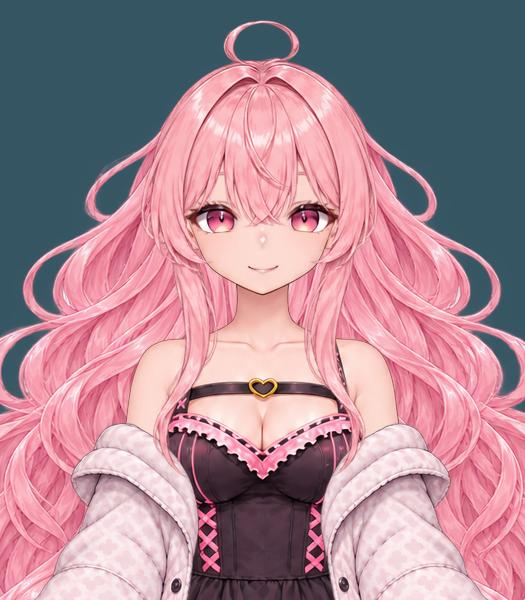
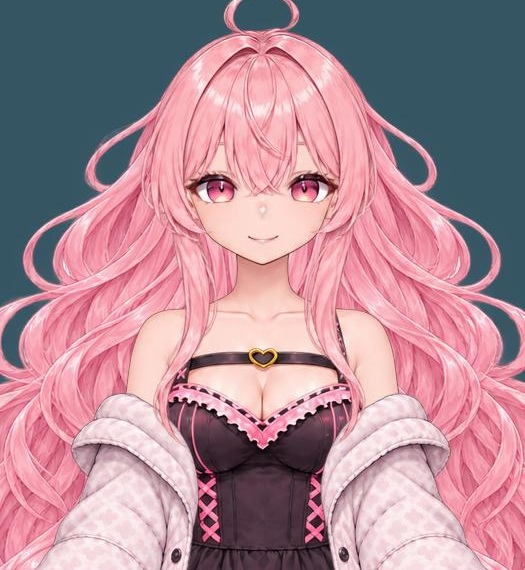
Replace AI or Not question 45 artwork

diff --git a/games/ai-or-not/game.js b/games/ai-or-not/game.js
@@ -43,7 +43,7 @@ const questions = [
   {src:'images/q42.png',ai:true,copy:'AI画像です。生成AIによって制作された画像です。'},
   {src:'images/q43.png',ai:true,copy:'AI画像です。生成AIによって制作された画像です。'},
   {src:'images/q44.png',ai:true,copy:'AI画像です。生成AIによって制作された画像です。'},
-  {src:'images/q45.jpg',ai:true,copy:'AI画像です。生成AIによって制作された画像です。'},
+  {src:'images/q45.jpg?v=2',ai:true,copy:'AI画像です。生成AIによって制作された画像です。'},
 ];
 
 const startScreen=document.querySelector('#start-screen');

diff --git a/games/ai-or-not/index.html b/games/ai-or-not/index.html
@@ -102,7 +102,7 @@
 </details>
 <!-- game-info:end -->
 <footer>© 2026 にくねこスタジオ · <a href="../../terms/">利用規約</a> · <a href="../../privacy/">プライバシーポリシー</a><br><small>使用画像の権利は各権利者に帰属します。</small></footer>
-  <script src="game.js?v=20261116-1" defer></script>
+  <script src="game.js?v=20261116-2" defer></script>
   <script src="../../i18n.js"></script>
   <!-- Cloudflare Web Analytics -->
   <script type="module" src="https://static.cloudflareinsights.com/beacon.min.js" data-cf-beacon='{"token":"b0ebae13abad4e738176a8c4336b03ff"}'></script>
